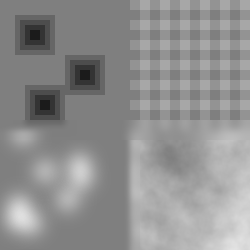
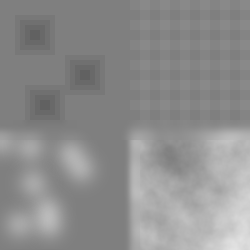
Do proper reset, proper GAE calculation, adapted height of terrain

diff --git a/envs/common/wrapper/training_wrapper.py b/envs/common/wrapper/training_wrapper.py
@@ -214,39 +214,44 @@ class AutoResetWrapper(Wrapper):
         
         def where_nan(x,y):
             nan = state.info['nan']
+            #jax.debug.print('Nan shape:{x}', x=nan.shape)
             if nan.shape:
                 nan = jp.reshape(nan, [x.shape[0]] + [1] * (len(x.shape) - 1))
             return jp.where(nan, x,y)
         
-        pipeline_state = jax.tree_map(
-            where_done, state.info['first_pipeline_state'], state.pipeline_state
-        )
-        # pipeline_state = jax.tree_map(
-        #     where_nan, state.info['first_pipeline_state'], pipeline_state
-        # )
+        def where_nan_done(x,y):
+            nan = state.info['nan']
+            done = state.done
+            if nan.shape:
+                nan = jp.reshape(nan, [x.shape[0]] + [1] * (len(x.shape) - 1))
+                done = jp.reshape(done, [x.shape[0]] + [1] * (len(x.shape) - 1))
+            return jp.where(jp.logical_or(nan, done), x, y)
         
+        pipeline_state = jax.tree_map(
+            where_nan_done, state.info['first_pipeline_state'], state.pipeline_state
+        )
+
         # Get rid of nan values in rewards, observations, priviledged_obs 
         for key in state.info['rewards']:
             # Update each value based on the condition
             state.info['rewards'][key] = jp.where(state.info['nan'], jp.array(0.0), state.info['rewards'][key])
-            
-        obs = where_nan(jp.zeros_like(state.info['first_obs']), state.obs)
-        reward = where_nan(jp.zeros_like(state.reward), state.reward)
-        priviledged_obs = where_nan(jp.zeros_like(state.info['first_priviledged_obs']), state.priviledged_obs)
-
-        obs = where_done(state.info['first_obs'], state.obs)
-        priviledged_obs = where_done(state.info['first_priviledged_obs'], state.priviledged_obs)
-        # reset information
-        state.info['last_act'] = where_done(jp.zeros_like(state.info['last_act']), state.info['last_act'])
-        state.info['last_vel'] = where_done(jp.zeros_like(state.info['last_vel']), state.info['last_vel'])
-        state.info['step'] = where_done(jp.zeros_like(state.info['step']), state.info['step'])
-        # Additional custom reset information
-        state.info['feet_air_time'] =  where_done(jp.zeros_like(state.info['feet_air_time']), state.info['feet_air_time'])
-        state.info['feet_contact_time'] = where_done(jp.zeros_like(state.info['feet_contact_time']), state.info['feet_contact_time'])
-        state.info['last_contact'] = where_done(jp.zeros_like(state.info['last_contact']), state.info['last_contact'])
-        state.info['time_out']= where_done(jp.zeros_like(state.info['time_out']), state.info['time_out'])
-        state.info['rng'] =where_done(jp.zeros_like(state.info['rng']), state.info['rng'])
-        state.info['action_minus_2t'] = where_done(jp.zeros_like(state.info['action_minus_2t']), state.info['action_minus_2t'])
         
+        # ------------- Update when NAN ------------- #  
+        reward = where_nan(jp.zeros_like(state.reward), state.reward)        
 
-        return state.replace(pipeline_state=pipeline_state, obs = obs, reward= reward,  priviledged_obs=priviledged_obs)
+        # -------------  Update when DONE ------------- #
+        obs = where_nan_done(state.info['first_obs'], state.obs)
+        priviledged_obs = where_nan_done(state.info['first_priviledged_obs'], state.priviledged_obs)
+        # reset information
+        state.info['last_act'] = where_nan_done(jp.zeros_like(state.info['last_act']), state.info['last_act'])
+        state.info['last_vel'] = where_nan_done(jp.zeros_like(state.info['last_vel']), state.info['last_vel'])
+        state.info['step'] = where_nan_done(jp.zeros_like(state.info['step']), state.info['step'])
+        # Additional custom reset information
+        state.info['feet_air_time'] =  where_nan_done(jp.zeros_like(state.info['feet_air_time']), state.info['feet_air_time'])
+        state.info['feet_contact_time'] = where_nan_done(jp.zeros_like(state.info['feet_contact_time']), state.info['feet_contact_time'])
+        state.info['last_contact'] = where_nan_done(jp.zeros_like(state.info['last_contact']), state.info['last_contact'])
+        state.info['time_out']= where_nan_done(jp.zeros_like(state.info['time_out']), state.info['time_out'])
+        state.info['rng'] =where_nan_done(jp.zeros_like(state.info['rng']), state.info['rng'])
+        state.info['action_minus_2t'] = where_nan_done(jp.zeros_like(state.info['action_minus_2t']), state.info['action_minus_2t'])
+        
+        return state.replace(pipeline_state=pipeline_state, obs = obs, reward=reward, priviledged_obs=priviledged_obs)

diff --git a/envs/robots/unitree_env.py b/envs/robots/unitree_env.py
@@ -15,7 +15,9 @@ from pathlib import Path
 import os
 import numpy as np
 
-#config.update("jax_debug_nans", True)
+
+# config.update("jax_debug_nans", True)
+# config.update('jax_default_matmul_precision', jax.lax.Precision.HIGH)
 
 
 class UnitreeEnv(MjxEnv):
@@ -457,6 +459,7 @@ class UnitreeEnv(MjxEnv):
         Returns:
             state: the new state of the environment
         """
+        
         # For randomization
         rng, obs_rng, kick_noise, cmd_rng = jax.random.split(state.info['rng'], 4)
         
@@ -552,7 +555,7 @@ class UnitreeEnv(MjxEnv):
         state.info['rewards'] = rewards
         state.info['step']+= 1
         state.info['gait_idx'] = jp.remainder(state.info['step']*self.dt, 1.0)
-        state.info['nan']= jp.isnan(data.qpos).any() | jp.isnan(data.qvel).any() 
+        state.info['nan']= jp.isnan(data.qpos).any() | jp.isnan(data.qvel).any()
         state.info['time_out'] = state.info['step'] > self.episode_length
         state.info['rng'] = rng
         state.info['action_minus_2t'] = state.info['last_act'] 
@@ -562,11 +565,6 @@ class UnitreeEnv(MjxEnv):
         state.info['foot_pos_z'] = foot_pos[:, 2]
         # log total displacement as a proxy metric
         state.metrics['total_dist'] = math.normalize(x.pos[self._torso_idx - 1])[1]
-        
-        #jax.debug.print('Foot pos z:{x}', x = foot_pos[:, 2])
-        #jax.debug.print('Gait_idx: {x}', x=state.info['gait_idx'])
-
-        #self._reward_foot_clearance(state.info['gait_idx'], foot_z=foot_pos[:, 2])
 
         state.info['command'] = jp.where(
             self.manual_control,
@@ -590,8 +588,8 @@ class UnitreeEnv(MjxEnv):
 
         # observation
         obs, priviledged_obs = self._get_obs(data, state.info, state.obs, state.priviledged_obs, obs_rng=obs_rng)
-        done |= jp.isnan(data.qpos).any() | jp.isnan(data.qvel).any() | jp.isnan(obs).any()
-        state.info['nan'] |= jp.isnan(obs).any()
+        #done |= jp.isnan(data.qpos).any() | jp.isnan(data.qvel).any() | jp.isnan(obs).any()
+        state.info['nan'] |= jp.isnan(obs).any() | jp.isnan(priviledged_obs).any()
         #jax.debug.print('Is nan: {x}', x=state.info['nan'])
         done = jp.float32(done)
 
@@ -718,7 +716,7 @@ class UnitreeEnv(MjxEnv):
         # Check if compliant with limits
         done |= jp.any(data.qpos[7:] < self.lower_limits) 
         done |= jp.any(data.qpos[7:] > self.upper_limits)
-        # Old termination: based on z-height
+        # Old termination: based on z-heightfjp
         # done |= data.xpos[self._torso_idx, 2] < self.min_z
         
         # New termination: If body touches the ground
@@ -732,7 +730,7 @@ class UnitreeEnv(MjxEnv):
         done_map = (jp.abs(data.qpos[0]) > 10.0) | (jp.abs(data.qpos[1]) > 10.0) | (jp.abs(data.qpos[2]) < -3.0)
         done |= done_map*self.terminate_map
 
-        done |= jp.isnan(data.qpos).any() | jp.isnan(data.qvel).any()
+        #done |= jp.isnan(data.qpos).any() | jp.isnan(data.qvel).any()
         
 
         return done

diff --git a/utils/hm_gen.py b/utils/hm_gen.py
@@ -56,15 +56,19 @@ class HeightMapGenerator:
         height = end_x-start_x
         height_map_with_hills = np.zeros((width, height ), dtype=np.uint8)  # Create a copy of the original height map
 
-        for _ in range(num_hills):
+        # center_x = np.random.randint(0, width-hill_radius, size = num_hills)
+        # center_y = np.random.randint(0, height-hill_radius, size=num_hills)
+        center_x = np.random.choice(np.arange(0, width-hill_radius), size=num_hills)
+        center_y = np.random.choice(np.arange(0, height-hill_radius), size=num_hills)
+
+        for i in range(num_hills):
             # Randomly select the center of the hill
-            center_x = np.random.randint(0, width-hill_radius)
-            center_y = np.random.randint(0, height-hill_radius)
+            
 
             # Generate the hill using Gaussian function
             for y in range(0, width-1):
                 for x in range(0, height-1):
-                    distance = np.sqrt((x - center_x) ** 2 + (y - center_y) ** 2)
+                    distance = np.sqrt((x - center_x[i]) ** 2 + (y - center_y[i]) ** 2)
                     if distance < hill_radius:
                         height_map_with_hills[y][x] += hill_height * np.exp(-((distance ** 2) / ((hill_radius**2 /4))))
 
@@ -248,16 +252,16 @@ def main():
     hm_gen.generate_perlin_noise(start_x=130, start_y=130, end_x=250, end_y=250, maximum=100) 
     
     # Generate Pyramids
-    hm_gen.pyramid(5, 20, 80, 50, maximum=100)
-    hm_gen.pyramid(5, 10, 10, 50,maximum=100)
-    hm_gen.pyramid(5, 60, 50, 50, maximum=100)
+    hm_gen.pyramid(5, 20, 80, 50, maximum=30)
+    hm_gen.pyramid(5, 10, 10, 50,maximum=30)
+    hm_gen.pyramid(5, 60, 50, 50, maximum=30)
     
     # Generate checkerboard pattern
-    hm_gen.stripes(25, 10, height=20, direction='vertical', win_start_x=0, win_start_y=130, win_end_x=130, win_end_y=250)
-    hm_gen.stripes(25, 10, height=20, direction='horizontal', win_start_x=0, win_start_y=130, win_end_x=130, win_end_y=250)
+    hm_gen.stripes(25, 10, height=5, direction='vertical', win_start_x=0, win_start_y=130, win_end_x=130, win_end_y=250)
+    hm_gen.stripes(25, 10, height=5, direction='horizontal', win_start_x=0, win_start_y=130, win_end_x=130, win_end_y=250)
 
     # Generate gaussian hills
-    hm_gen.generate_gaussian_hills(8, 50, 30, start_x=0, start_y=130, end_x=130, end_y=250)
+    hm_gen.generate_gaussian_hills(8, 40, 30, start_x=0, start_y=130, end_x=130, end_y=250)
 
     #
     hm_gen.blur_height_map(sigma=3, start_x=120, start_y=120, end_x=250, end_y=140)

diff --git a/tasks/PPOTaskBase.py b/tasks/PPOTaskBase.py
@@ -123,16 +123,16 @@ class PPOTaskBase(nn.Module):
             print(f"Episode infos: {episode_infos}")
             print(f"Termination reward: {episode_infos['termination']}")
         episode_infos['time_outs'] = time_out
-        return self.obs, self.obs_priv, episode_infos, eval_infos
+        return self.obs, self.obs_priv, dones, episode_infos, eval_infos
 
     def simulate(self,it, is_training=True): # Simulates through one episode
         """
         Simulate through one episode and store the statistics.
         """
         # Simulate through one episode
-        next_obs_g, next_priv_obs_g,episode_infos, eval_infos = self.rollout(it,is_training=is_training)
+        next_obs_g, next_priv_obs_g, dones, episode_infos, eval_infos = self.rollout(it,is_training=is_training)
         # get goal conditioned state
-        self.algo.compute_returns(next_priv_obs_g)
+        self.algo.compute_returns(next_priv_obs_g, dones)
         # Show statistics
         stat = self.algo.storage.statistics()
 

diff --git a/model/replay_buffer.py b/model/replay_buffer.py
@@ -80,14 +80,15 @@ class ReplayBuffer:
     def clear(self):
         self.step = 0
 
-    def compute_returns(self, last_values, gamma, lamb):
+    def compute_returns(self, last_values, last_dones, gamma, lamb):
         advantage = 0
         for step in reversed(range(self.num_transitions_per_env)):
             if step == self.num_transitions_per_env - 1:
                 next_values = last_values
+                next_is_not_terminate = last_dones.view(-1, 1)
             else:
                 next_values = self.values[step+1]
-            next_is_not_terminate = 1.0 - self.dones[step].float()
+                next_is_not_terminate = 1.0 - self.dones[step+1].float()
             delta = self.rewards[step] + next_is_not_terminate * gamma * next_values - self.values[step]
             advantage = delta + next_is_not_terminate * gamma * lamb * advantage
             self.returns[step] = advantage + self.values[step]

diff --git a/rl_algo/ppo.py b/rl_algo/ppo.py
@@ -103,9 +103,9 @@ class PPO(nn.Module):
         self.storage.add_transitions(self.transition)
         self.transition.clear()
 
-    def compute_returns(self, last_obs_g):
+    def compute_returns(self, last_obs_g, dones):
         last_values = self.actor_critic.evaluate(last_obs_g.detach().clone()).detach()
-        return self.storage.compute_returns(last_values, self.cfg.gamma, self.cfg.lamb)
+        return self.storage.compute_returns(last_values, dones, self.cfg.gamma, self.cfg.lamb)
 
     def update(self):
         mean_value_loss = 0
